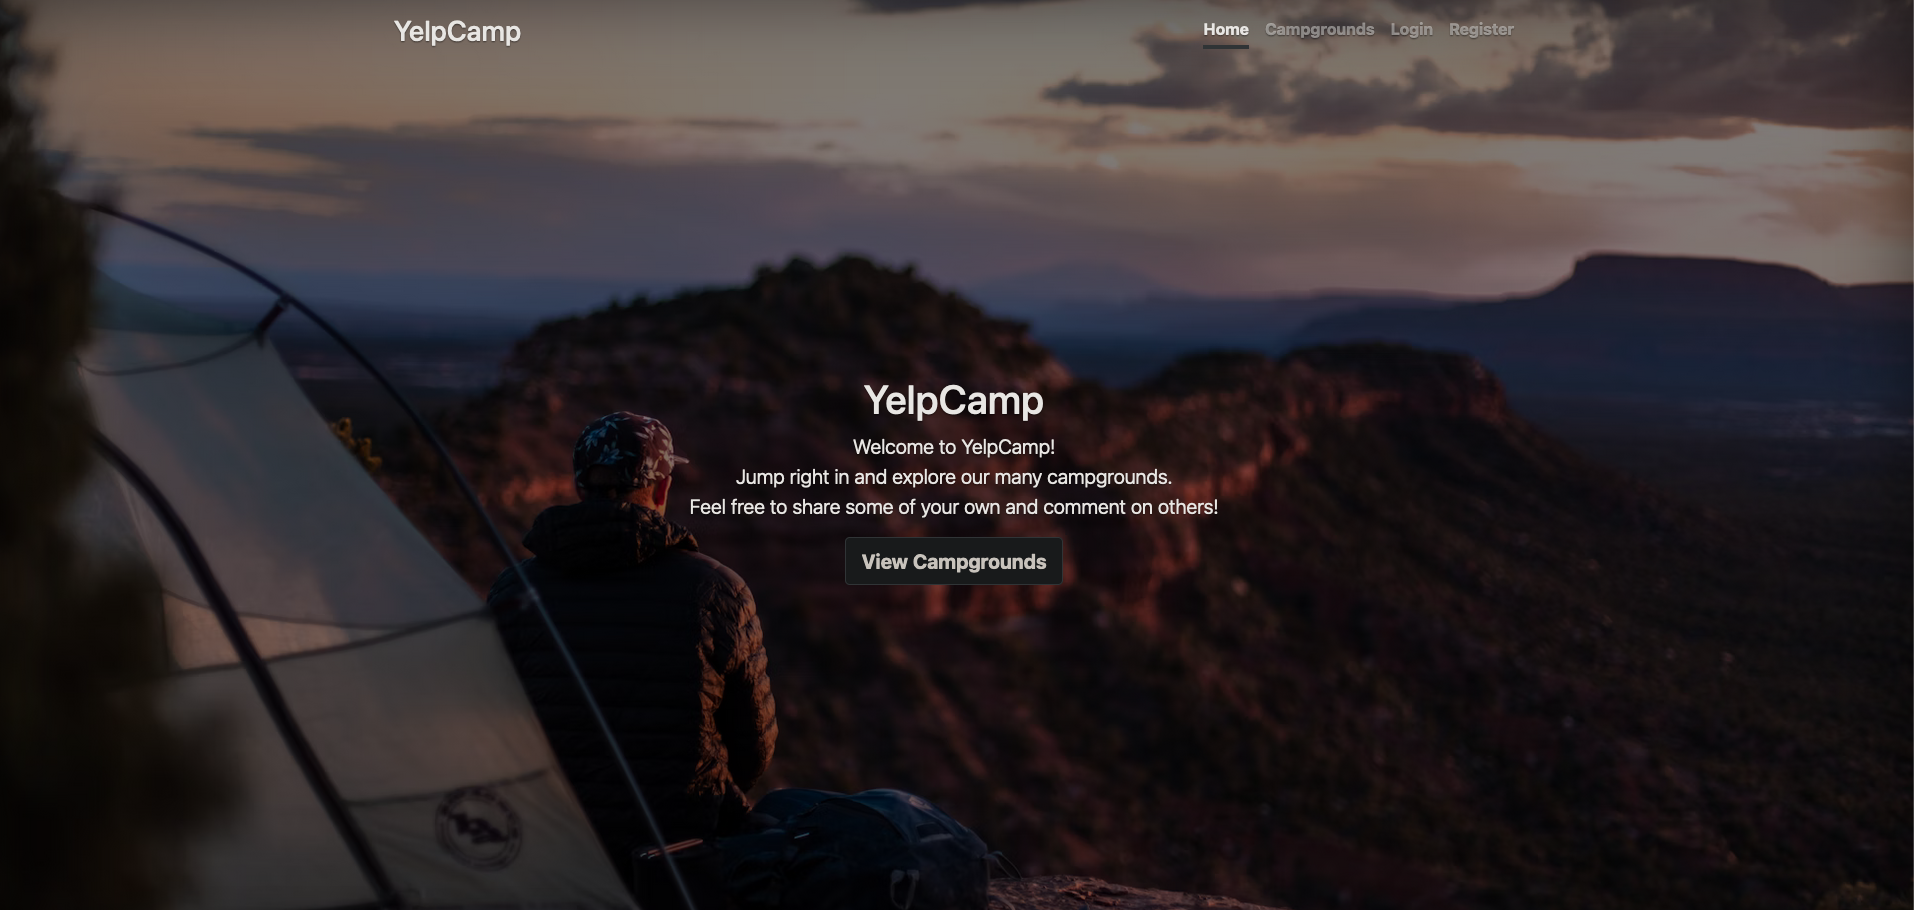
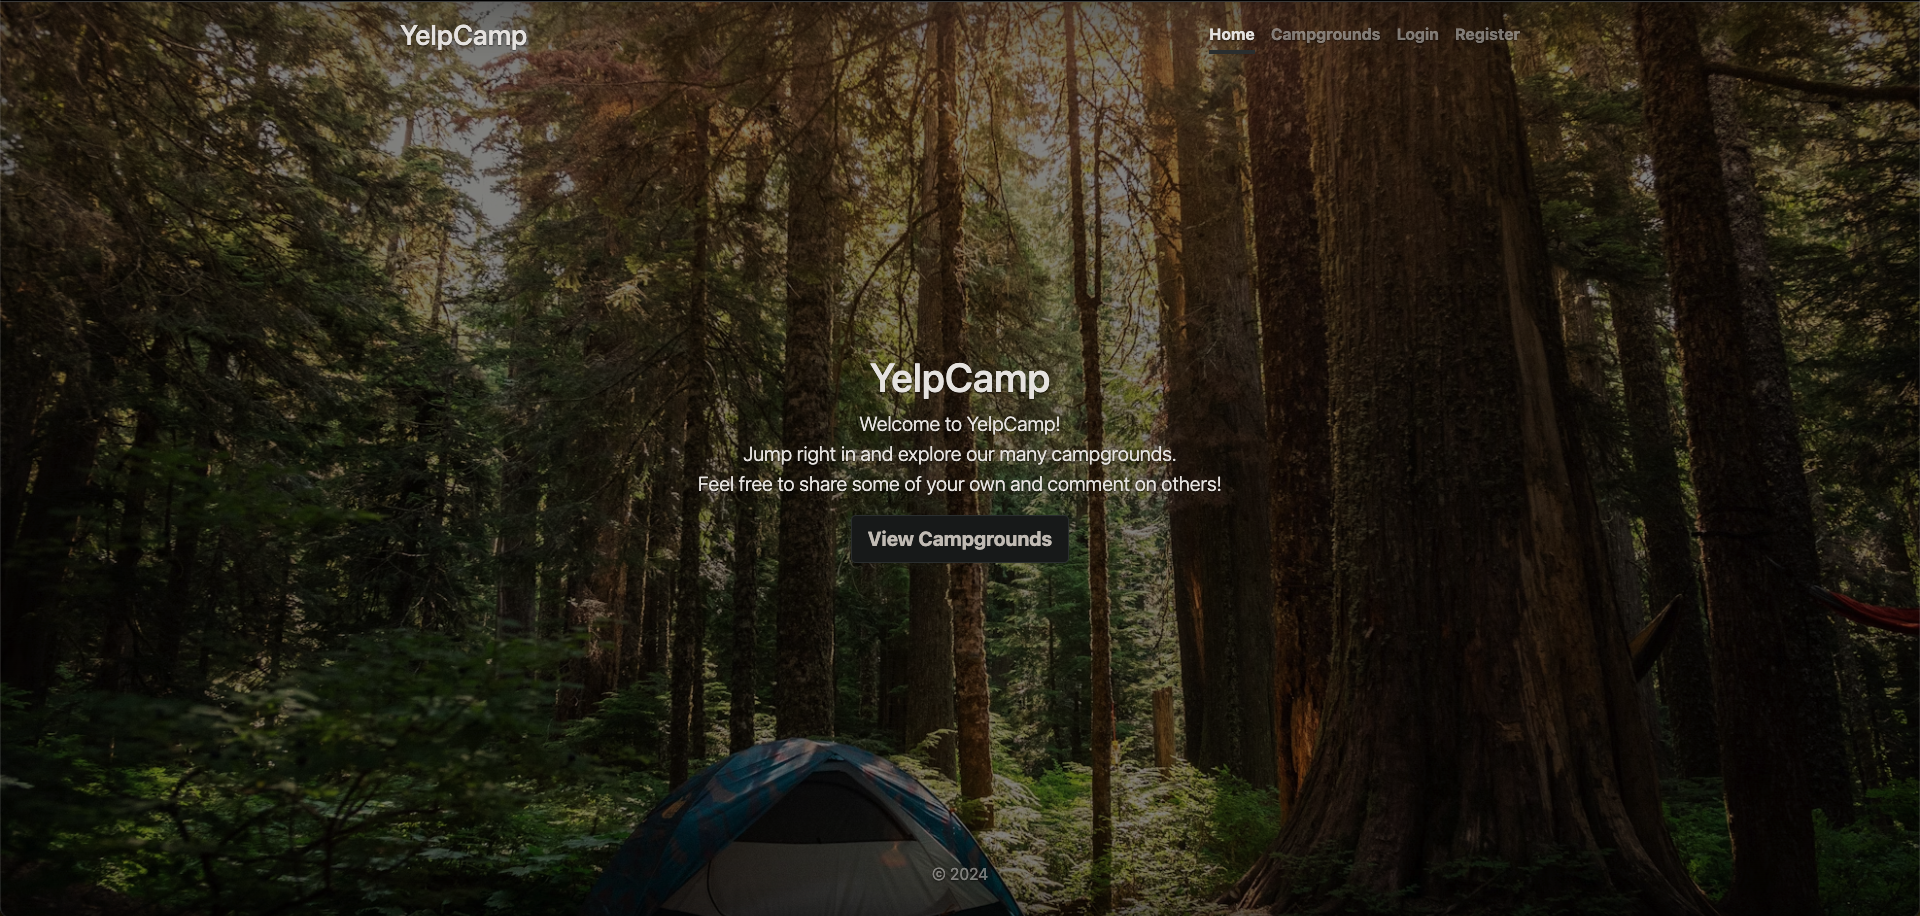
updated background image

diff --git a/public/stylesheets/home.css b/public/stylesheets/home.css
@@ -1,7 +1,7 @@
 body {
     height: 100vh;
     background-image: linear-gradient(rgba(0, 0, 0, 0.5), rgba(0, 0, 0, 0.5)),
-    url("https://images.unsplash.com/photo-1559521783-1d1599583485?ixlib=rb-1.2.1&ixid=eyJhcHBfaWQiOjEyMDd9&auto=format&fit=crop&w=1950&q=80");
+    url("https://images.unsplash.com/photo-1631740694409-580a251e4ab8?q=80&w=1976&auto=format&fit=crop&ixlib=rb-4.0.3&ixid=M3wxMjA3fDB8MHxwaG90by1wYWdlfHx8fGVufDB8fHx8fA%3D%3D");
     background-size: cover;
     background-position: center;
     text-shadow: 0 0.05rem 0.1rem rgba(0, 0, 0, 0.5);
